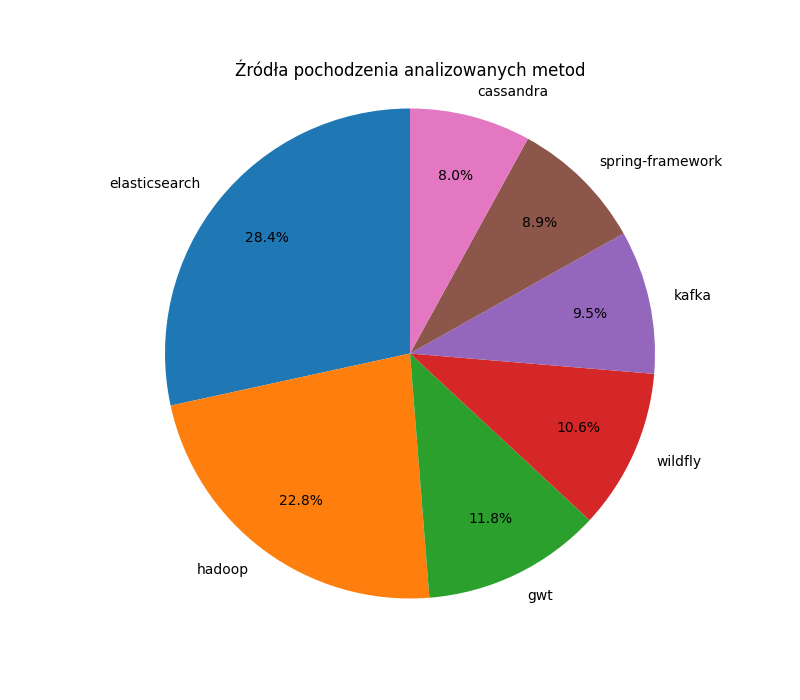
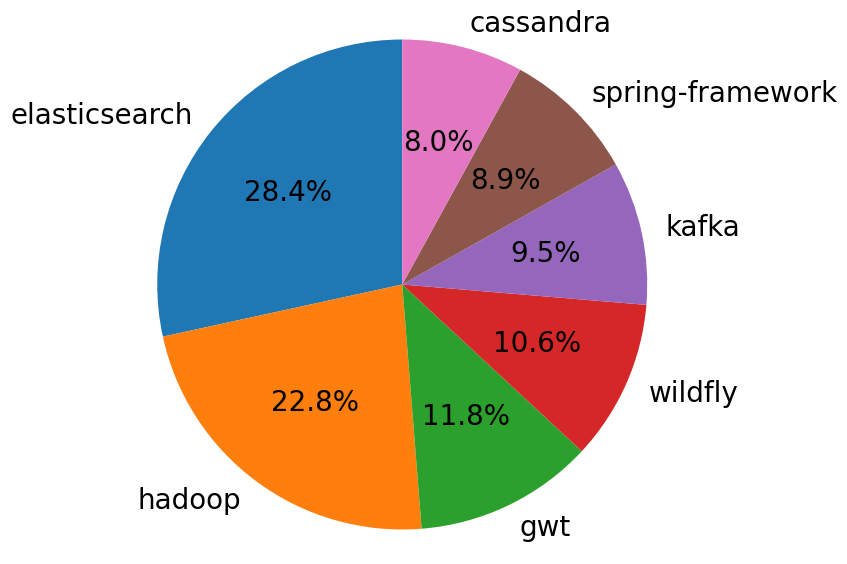
fix for pie diagram

diff --git a/main.py b/main.py
@@ -222,10 +222,10 @@ def plot_original_projects_percentage(csv_filepath, output_filepath):
     sorted_folders = sorted(folder_counts.items(), key=lambda x: x[1], reverse=True)
     folders, counts = zip(*sorted_folders)
     fig, ax = plt.subplots(figsize=(8, 7))
-    ax.pie(counts, labels=folders, autopct='%1.1f%%', startangle=90)
+    ax.pie(counts, labels=folders, autopct='%1.1f%%', startangle=90, textprops={'size': 20})
     ax.axis('equal')
-    plt.title('Źródła pochodzenia analizowanych metod')
-    plt.savefig(output_filepath)
+    # plt.title('Źródła pochodzenia analizowanych metod')
+    plt.savefig(output_filepath, bbox_inches='tight')
     print(f'Plot saved as {output_filepath}')
 
 
